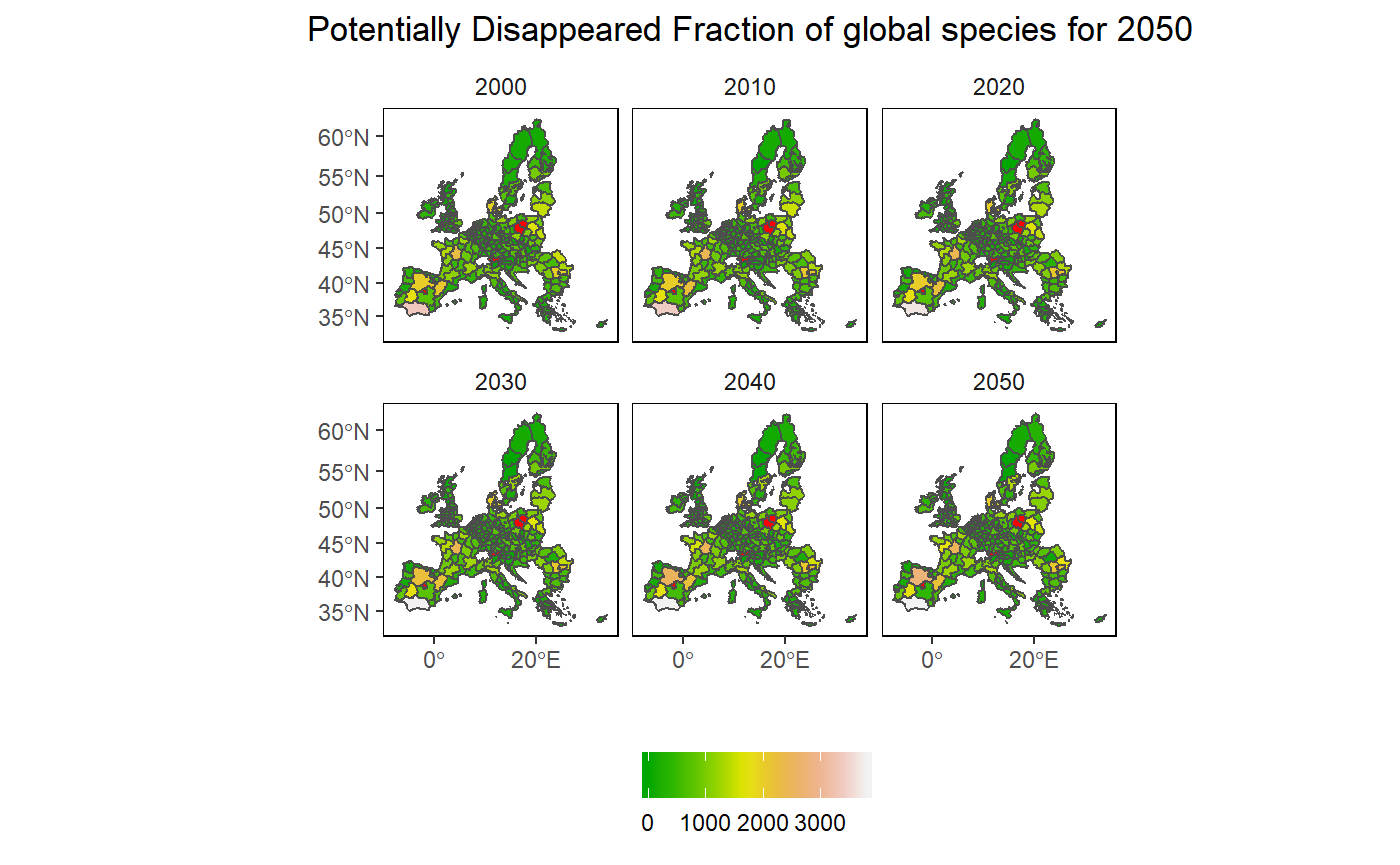
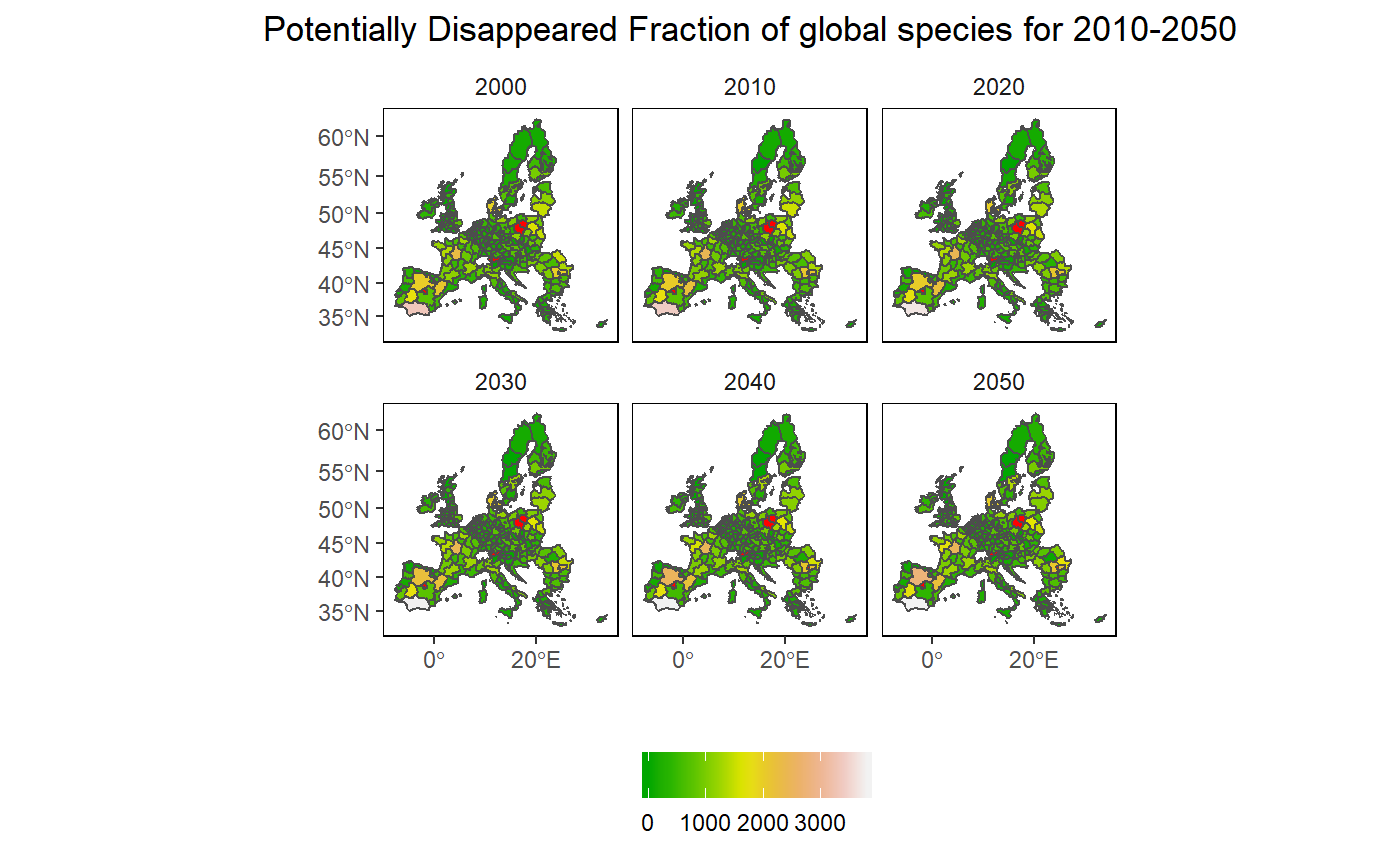
add

Changed region(s): [[0.1843, 0.0, 0.8907, 0.0624]]

diff --git a/docs/articles/rglobiom3.html b/docs/articles/rglobiom3.html
@@ -105,7 +105,7 @@
 <a class="sourceLine" id="cb1-5" title="5"></a>
 <a class="sourceLine" id="cb1-6" title="6"><span class="co"># Load the EU NUTS polygons</span></a>
 <a class="sourceLine" id="cb1-7" title="7">eu_nuts_poly &lt;-<span class="st"> </span><span class="kw">st_read</span>(<span class="kw"><a href="https://rdrr.io/r/base/system.file.html">system.file</a></span>(<span class="st">"shp"</span>, <span class="st">"NUTS2_revised.shp"</span>, <span class="dt">package =</span> <span class="st">"rglobiom"</span>))</a>
-<a class="sourceLine" id="cb1-8" title="8"><span class="co">#&gt; Reading layer `NUTS2_revised' from data source `c:\Temp\RtmpyE3qUt\temp_libpath4738485b1cfc\rglobiom\shp\NUTS2_revised.shp' using driver `ESRI Shapefile'</span></a>
+<a class="sourceLine" id="cb1-8" title="8"><span class="co">#&gt; Reading layer `NUTS2_revised' from data source `c:\Temp\RtmpyE3qUt\temp_libpath47384da44c71\rglobiom\shp\NUTS2_revised.shp' using driver `ESRI Shapefile'</span></a>
 <a class="sourceLine" id="cb1-9" title="9"><span class="co">#&gt; Simple feature collection with 260 features and 8 fields</span></a>
 <a class="sourceLine" id="cb1-10" title="10"><span class="co">#&gt; geometry type:  MULTIPOLYGON</span></a>
 <a class="sourceLine" id="cb1-11" title="11"><span class="co">#&gt; dimension:      XY</span></a>
@@ -157,7 +157,7 @@
 <a class="sourceLine" id="cb3-11" title="11"><span class="st">  </span><span class="kw">geom_sf</span>(<span class="dt">data =</span> eu_nuts_poly_s, <span class="dt">colour =</span> <span class="st">"grey30"</span>, <span class="dt">fill =</span> <span class="st">"red"</span>) <span class="op">+</span></a>
 <a class="sourceLine" id="cb3-12" title="12"><span class="st">  </span><span class="kw">geom_sf</span>(<span class="dt">data =</span> df2, <span class="dt">colour =</span> <span class="st">"grey30"</span>, <span class="kw">aes</span>(<span class="dt">fill =</span> value)) <span class="op">+</span></a>
 <a class="sourceLine" id="cb3-13" title="13"><span class="st">  </span><span class="kw">scale_fill_gradientn</span>(<span class="dt">colours =</span> <span class="kw"><a href="https://rdrr.io/r/grDevices/palettes.html">terrain.colors</a></span>(<span class="dv">10</span>)) <span class="op">+</span></a>
-<a class="sourceLine" id="cb3-14" title="14"><span class="st">  </span><span class="kw">labs</span>(<span class="dt">fill =</span> <span class="st">""</span>, <span class="dt">x =</span> <span class="st">""</span>, <span class="dt">y =</span> <span class="st">""</span>, <span class="dt">title =</span> <span class="st">"Potentially Disappeared Fraction of global species for 2050"</span>) <span class="op">+</span></a>
+<a class="sourceLine" id="cb3-14" title="14"><span class="st">  </span><span class="kw">labs</span>(<span class="dt">fill =</span> <span class="st">""</span>, <span class="dt">x =</span> <span class="st">""</span>, <span class="dt">y =</span> <span class="st">""</span>, <span class="dt">title =</span> <span class="st">"Potentially Disappeared Fraction of global species for 2010-2050"</span>) <span class="op">+</span></a>
 <a class="sourceLine" id="cb3-15" title="15"><span class="st">  </span><span class="kw">facet_wrap</span>(<span class="op">~</span>year) <span class="op">+</span></a>
 <a class="sourceLine" id="cb3-16" title="16"><span class="st">  </span><span class="kw">theme</span>(<span class="dt">panel.grid.major =</span> <span class="kw">element_blank</span>(), </a>
 <a class="sourceLine" id="cb3-17" title="17">        <span class="dt">panel.grid.minor =</span> <span class="kw">element_blank</span>(), </a>
